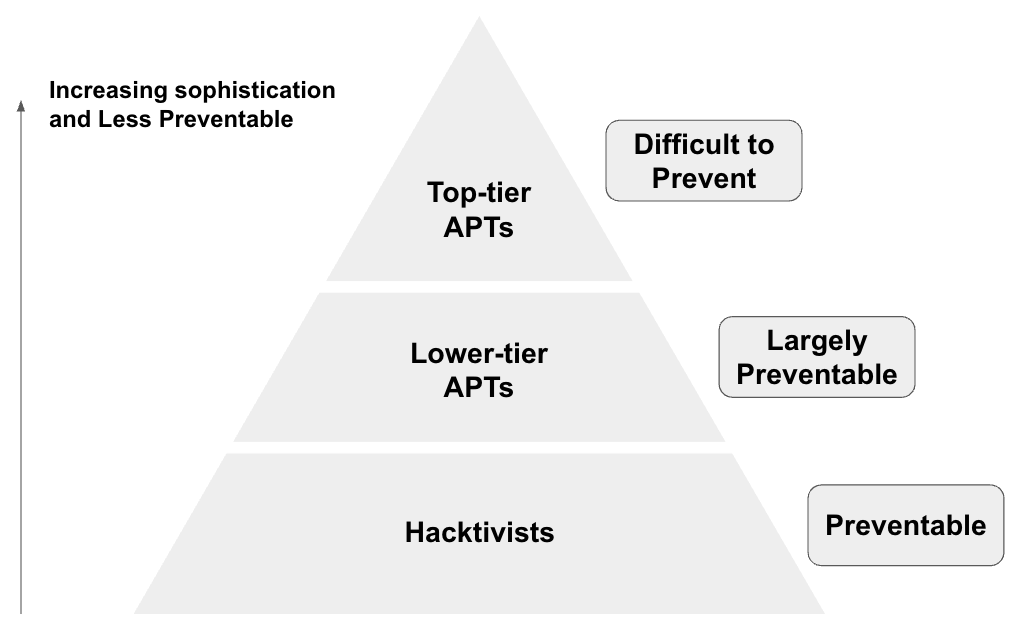
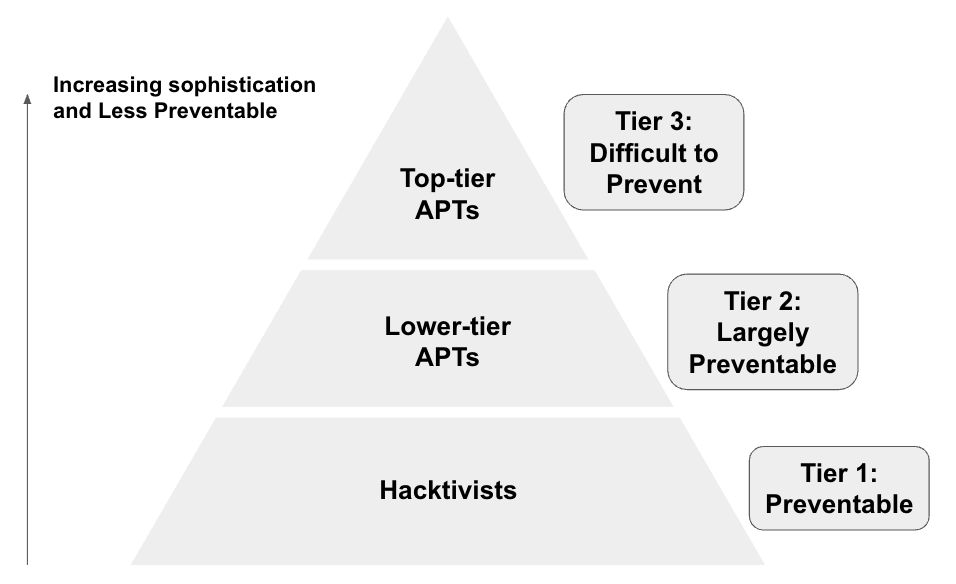
Replace Pyramid image with Tier labels and update Slide 5 subtitle and Tier 1 text

diff --git a/index.html b/index.html
@@ -290,11 +290,11 @@
         <div class="card-inner">
           <img src="media/Pyramid.png" alt="Threat Pyramid" style="width:100%; border-radius:0.75rem; margin-bottom:1.25rem;">
           <h2>Understand The Three Types of Threats</h2>
-          <h3>A Framework for Understanding Threats</h3>
+          <h3>The Threat Pyramid: A Framework for Understanding Threats</h3>
           <p>Different attackers have different intent and capabilities. To make sense of the landscape, it helps to
             categorise them by how preventable they are and who is behind them.</p>
           <p>At the base of the threat pyramid sit <strong>hacktivists</strong>, whose attacks
-            are largely <strong>preventable</strong>. One level up, <strong>lower-tier APTs</strong>
+            are <strong>preventable</strong>. One level up, <strong>lower-tier APTs</strong>
             pose threats that are <strong>largely preventable</strong>. At the apex, <strong>top-tier APTs</strong>,
             typically state-sponsored, execute attacks that are <strong>difficult to prevent</strong>.</p>
           <div class="dictionary-callout">
